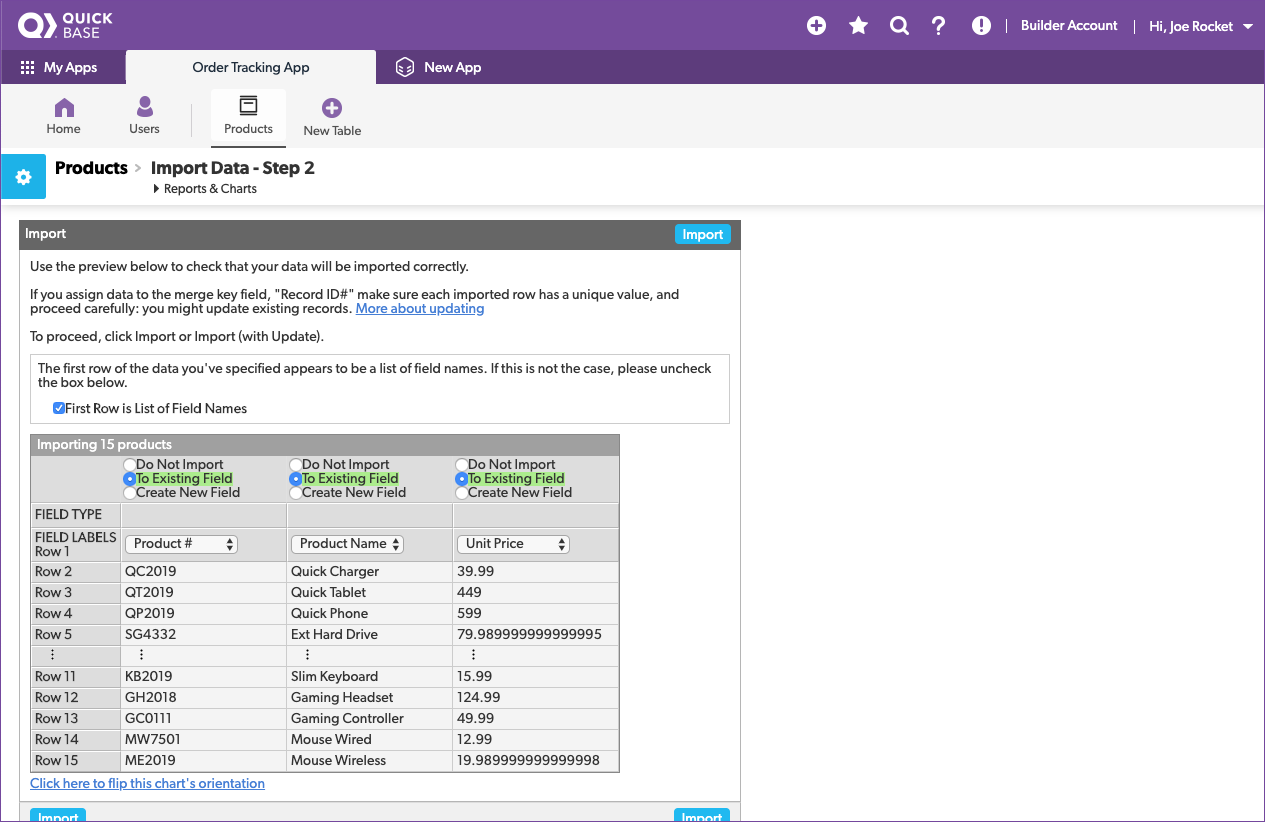
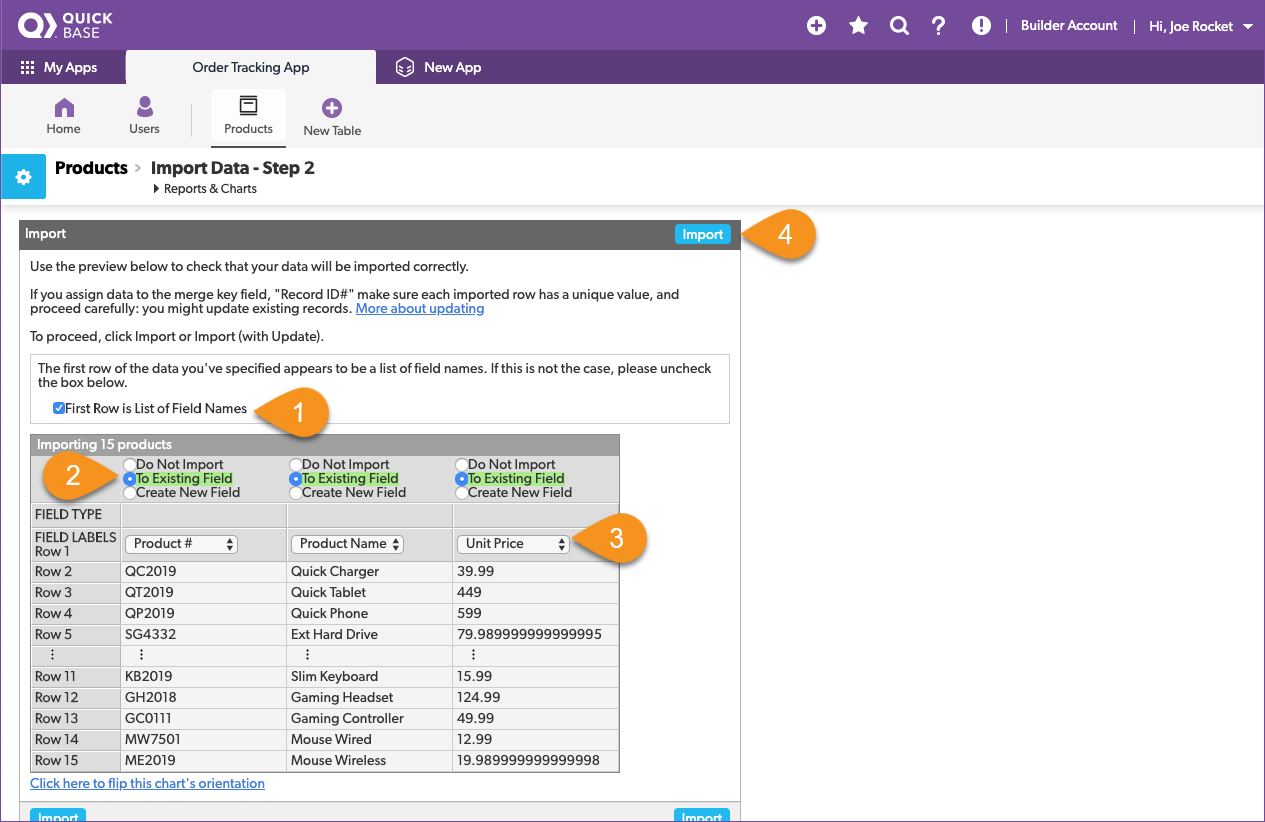
Product table images
Product table images updated with pointers

diff --git a/createProducts.md b/createProducts.md
@@ -42,8 +42,6 @@ Configure the table by giving it a name, record name, icon, and a description to
 
 Great! Creating the table is the first half of the configuration process. Next, add fields to the table and identify what kind of data they store. Remember, field names are like the column headers in a spreadsheet. We'll add the fields based on what we observed in Drew's spreadsheet.  
 
-
-
 1. Fill in a field label for each of the column names from the spreadsheet
 2. Select the data type for each field based on what we observed
 3. Click the **Add** button
@@ -66,9 +64,14 @@ Now that we have a place to store our data, let's import the products from the P
 4. Click the **Choose file** button and navigate to the _ProductList.xlsx_
 5. Click **Import from file**
 
+![](assets/images/image-7a.png)
+
 The **Import** dialogue allows you to configure how the file is imported.
 
+
 ![](assets/images/image-8.png)
+
+Now that we have set the configuration let's look at how it will be iimported.
 
 1. The first row of Drew's spreadsheet contains the field names. Make sure this is checked.
 2. We've already defined the fields and we want the data imported to them
@@ -81,7 +84,7 @@ Once all the data is loaded, the import results page opens to show the results: 
 
 ![](assets/images/image-10.png)
 
-> **Success!** You've imported your first spreadsheet to Quick Base.
+> **Success!** You've imported your first spreadsheet to Quick Base. 
 
 As an aside, what do you think would happen if you accidentally uploaded that same spreadsheet with the same list of products into the app a second time? Would every product appear in the table twice, like shown here?
 
@@ -91,29 +94,33 @@ Yes, and we don't want that! Quick Base requires that each table contains 1 fiel
 
 By default, Quick Base automatically creates a `Record ID#` field for every table and sets it as the **key field.** This is useful if your data doesn't contain a field that will always contain unique values. But because our Product # is always a unique SKU, we can make that the key field and avoid duplicate entries in the future.
 
-Here's how:
+We are already on the Products table so we just need to go to the Products table's settings to change it. Here's how:
 
-1. Click the icon for the Products table in the table nav bar
-2. Click the gear icon in the blue box next to the **Products > Products Home** breadcrumb
-3. Click **Fields (8)** in the **Table Structure** group
 
-Let's set the `Product #` field to be the **key** for the Products table.
+1. Click the gear icon in the blue box next to the **Products > Products Home** breadcrumb
+2. Click **Fields (8)** in the **Table Structure** group
+
+
+![](assets/images/image-10a.png)
 
 ![](assets/images/image-11.png)
 
-Select the checkbox for **Product #**.
+Let's set the **Product #** field to be the **key** for the Products table.
+
+
+1. Select the checkbox for **Product #**
+2. Click **Set Key**
+3. Click the **Set Key** button in the pop-up  
+4. Verify that the gold key moved to the _Product #_ field 
+5. Click **Exit Settings**.
 
 ![](assets/images/image-12.png)
 
-Click **Set Key**.
-
 ![](assets/images/image-13.png)
-
-Click the **Set Key** button in the pop-up.  
 
 ![](assets/images/image-14.png)
 
-Verify that the gold key moved to the `Product #` field then click **Exit Settings**.
+
 
 Your future self will thank you for setting this up now. 
 
@@ -127,7 +134,7 @@ Ok, almost done with the Products table. Our last step is to take a look at what
 
 We're looking for Product # `CA8018` which has the wrong product name `Cat 9 Cable 10ft`. It should be a Cat 8 cable. With the table report open, we quickly spot the wrong product name. We can correct the product name in the product list from the home page. 
 
-![](assets/images/image-16.png)
+
 
 1. Click the **Grid Edit** button in the app nav bar 
 2. Double click the wrong product name
@@ -135,6 +142,12 @@ We're looking for Product # `CA8018` which has the wrong product name `Cat 9 Cab
 4. Click the green **Save** button
 5. Verify that the product name was updated 
 
-In just a few clicks, you updated the product name. From now on, it'll be correct in all the orders.
+![](assets/images/image-15b.png)
+
+![](assets/images/image-16.png)
+
+![](assets/images/image-16a.png)
+
+In just a few clicks, you updated the product name. From now on, it'll be correct in all the orders. Notice that the updated record is now at the top of the table. This is because the default sort order the **last modified by** field.
 
 [Next](createOrders.html){: .btn .btn-purple }
